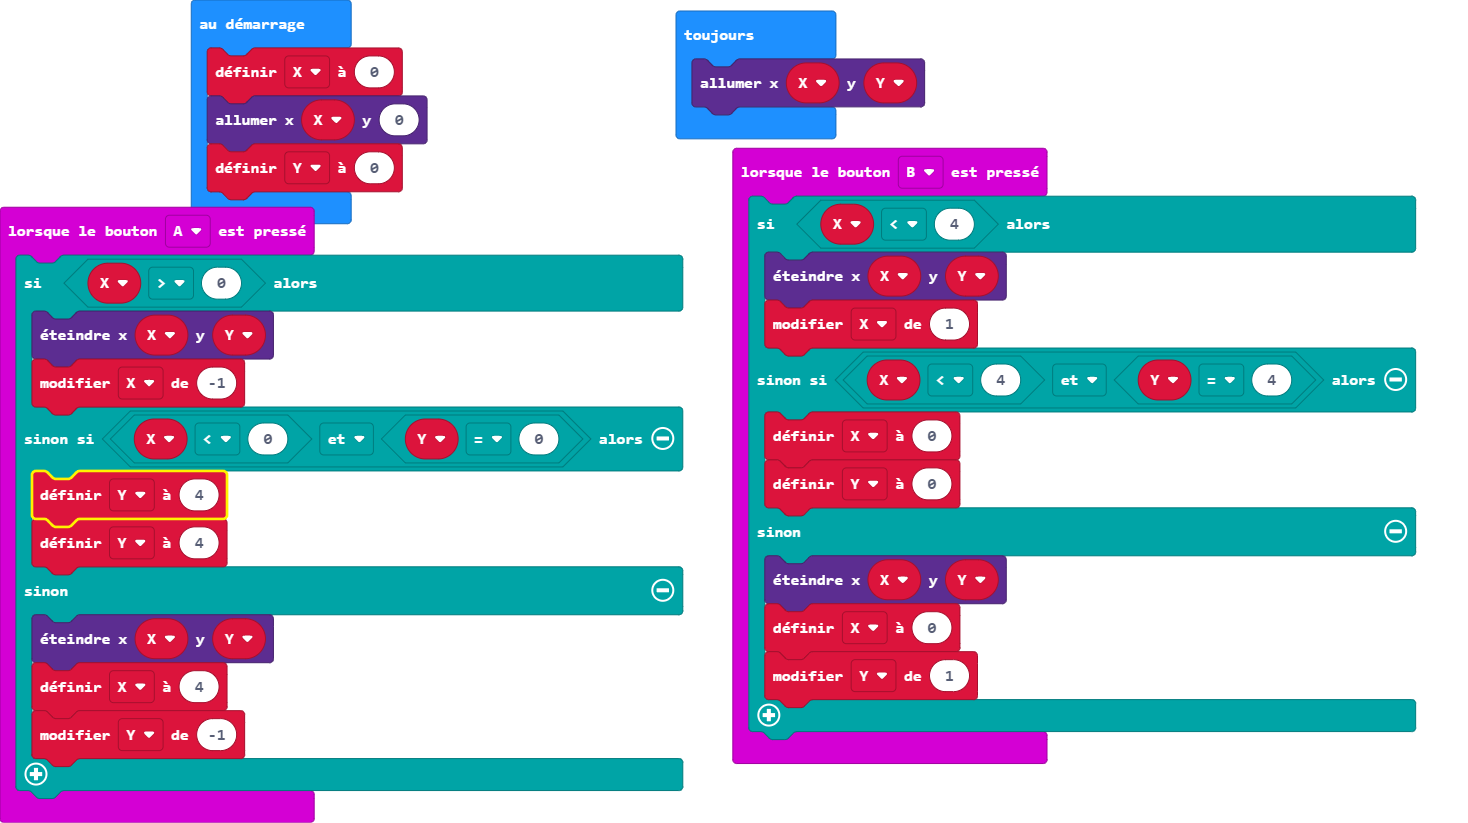
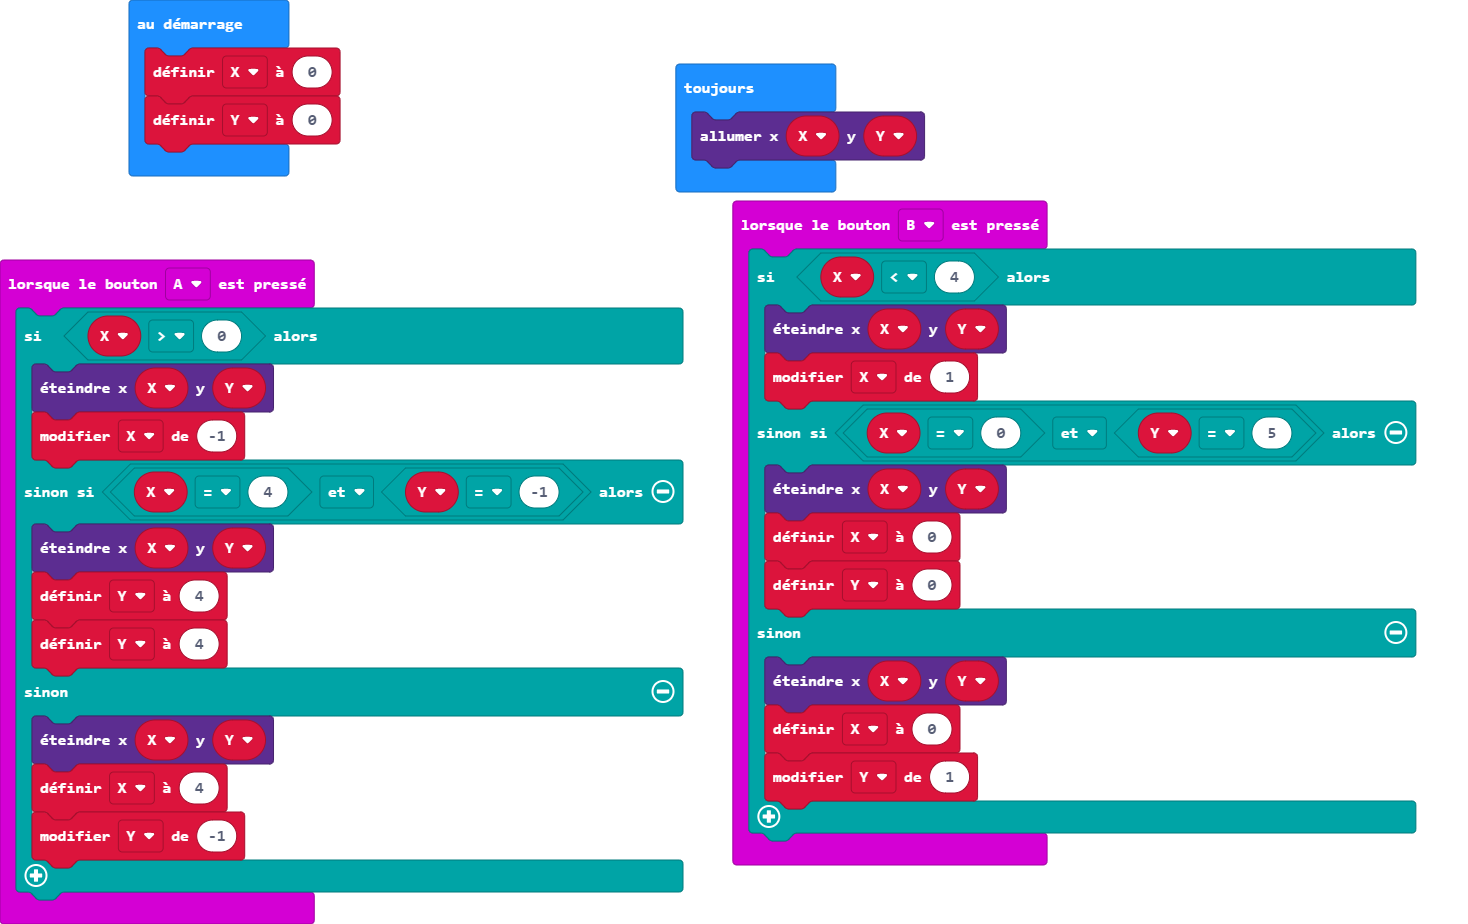
Mise à jour main.blocks, main.ts

Changed region(s): [[0.4598, 0.0, 0.9809, 0.9417], [0.0, 0.0, 0.4905, 0.9721]]

diff --git a/main.ts b/main.ts
@@ -2,7 +2,8 @@ input.onButtonPressed(Button.A, function () {
     if (X > 0) {
         led.unplot(X, Y)
         X += -1
-    } else if (X < 0 && Y == 0) {
+    } else if (X == 4 && Y == -1) {
+        led.unplot(X, Y)
         Y = 4
         Y = 4
     } else {
@@ -15,7 +16,8 @@ input.onButtonPressed(Button.B, function () {
     if (X < 4) {
         led.unplot(X, Y)
         X += 1
-    } else if (X < 4 && Y == 4) {
+    } else if (X == 0 && Y == 5) {
+        led.unplot(X, Y)
         X = 0
         Y = 0
     } else {
@@ -27,7 +29,6 @@ input.onButtonPressed(Button.B, function () {
 let Y = 0
 let X = 0
 X = 0
-led.plot(X, 0)
 Y = 0
 basic.forever(function () {
     led.plot(X, Y)
